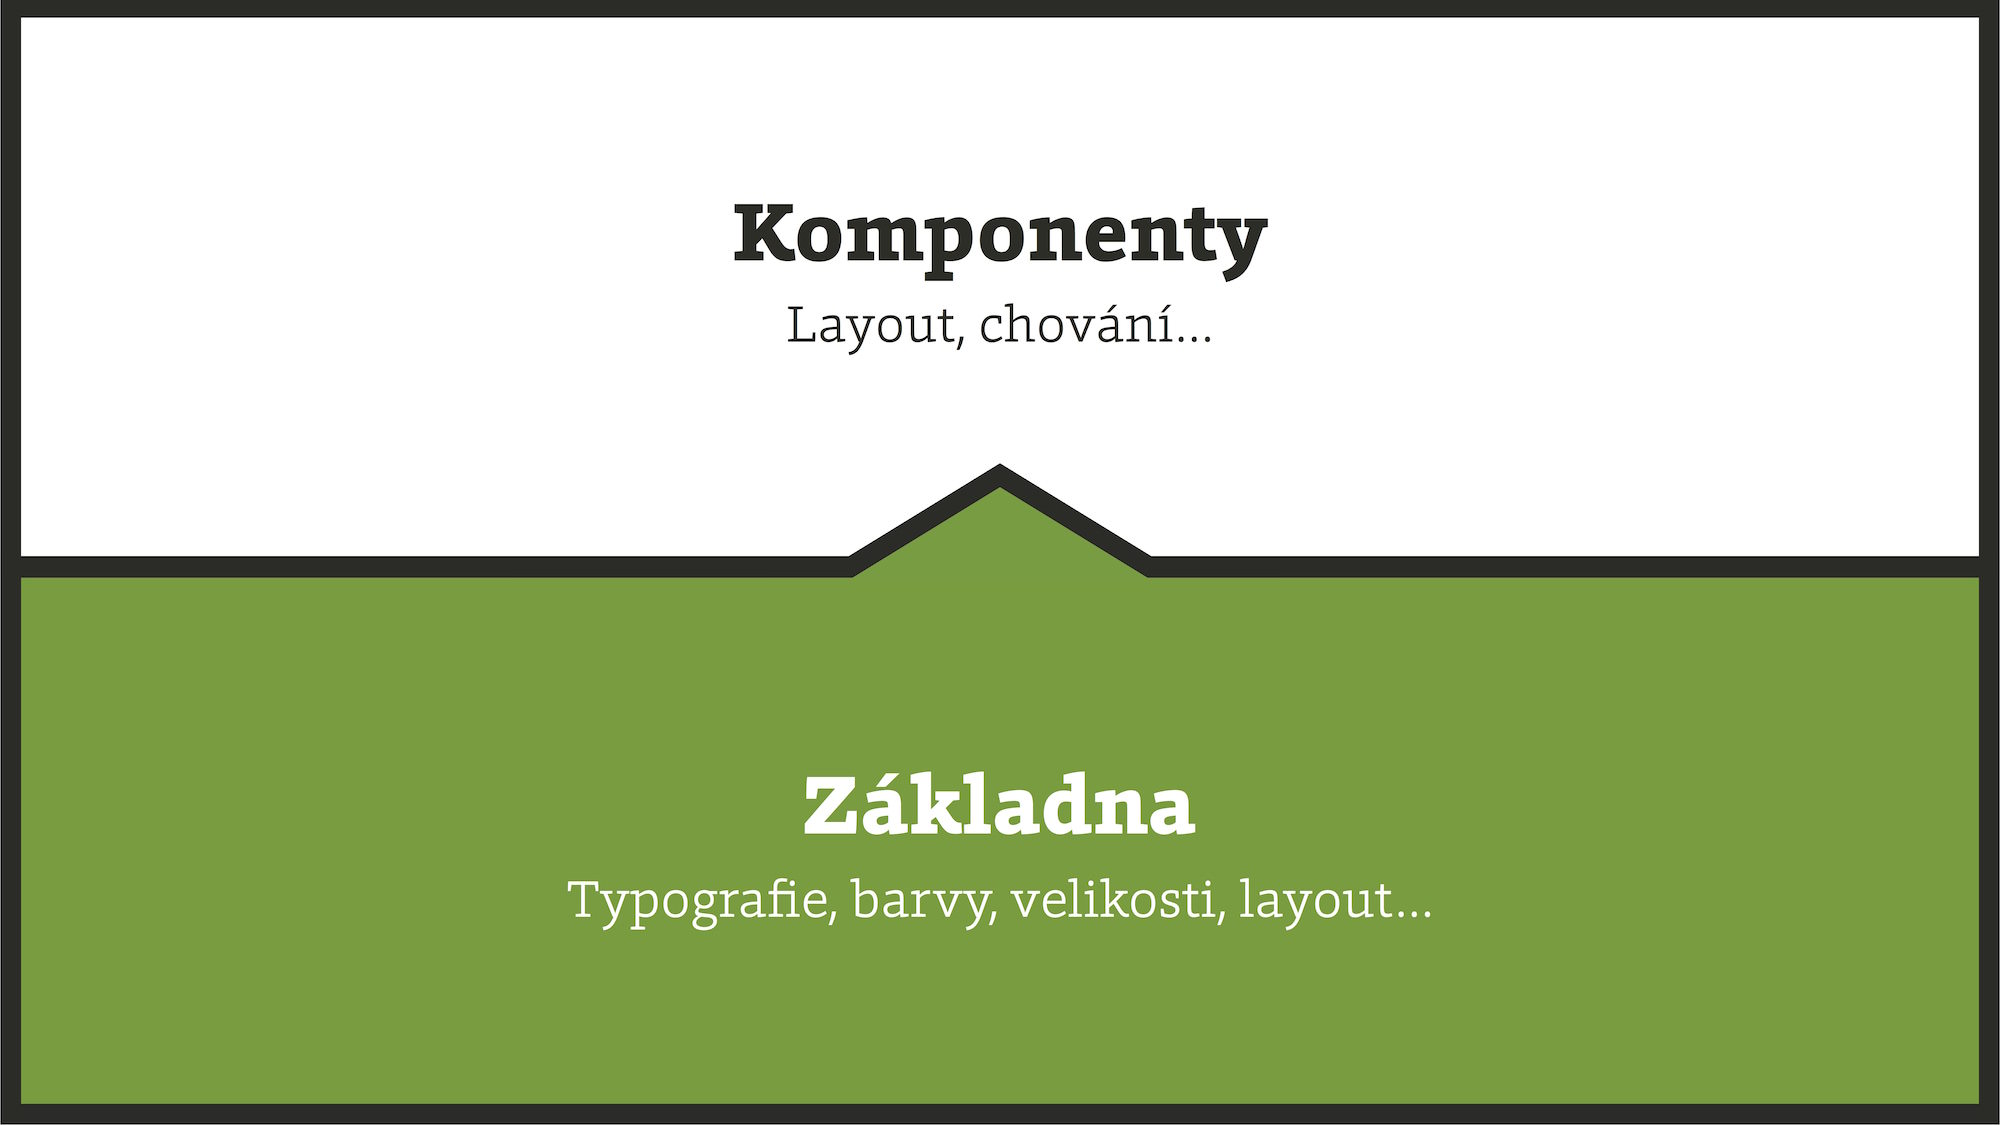
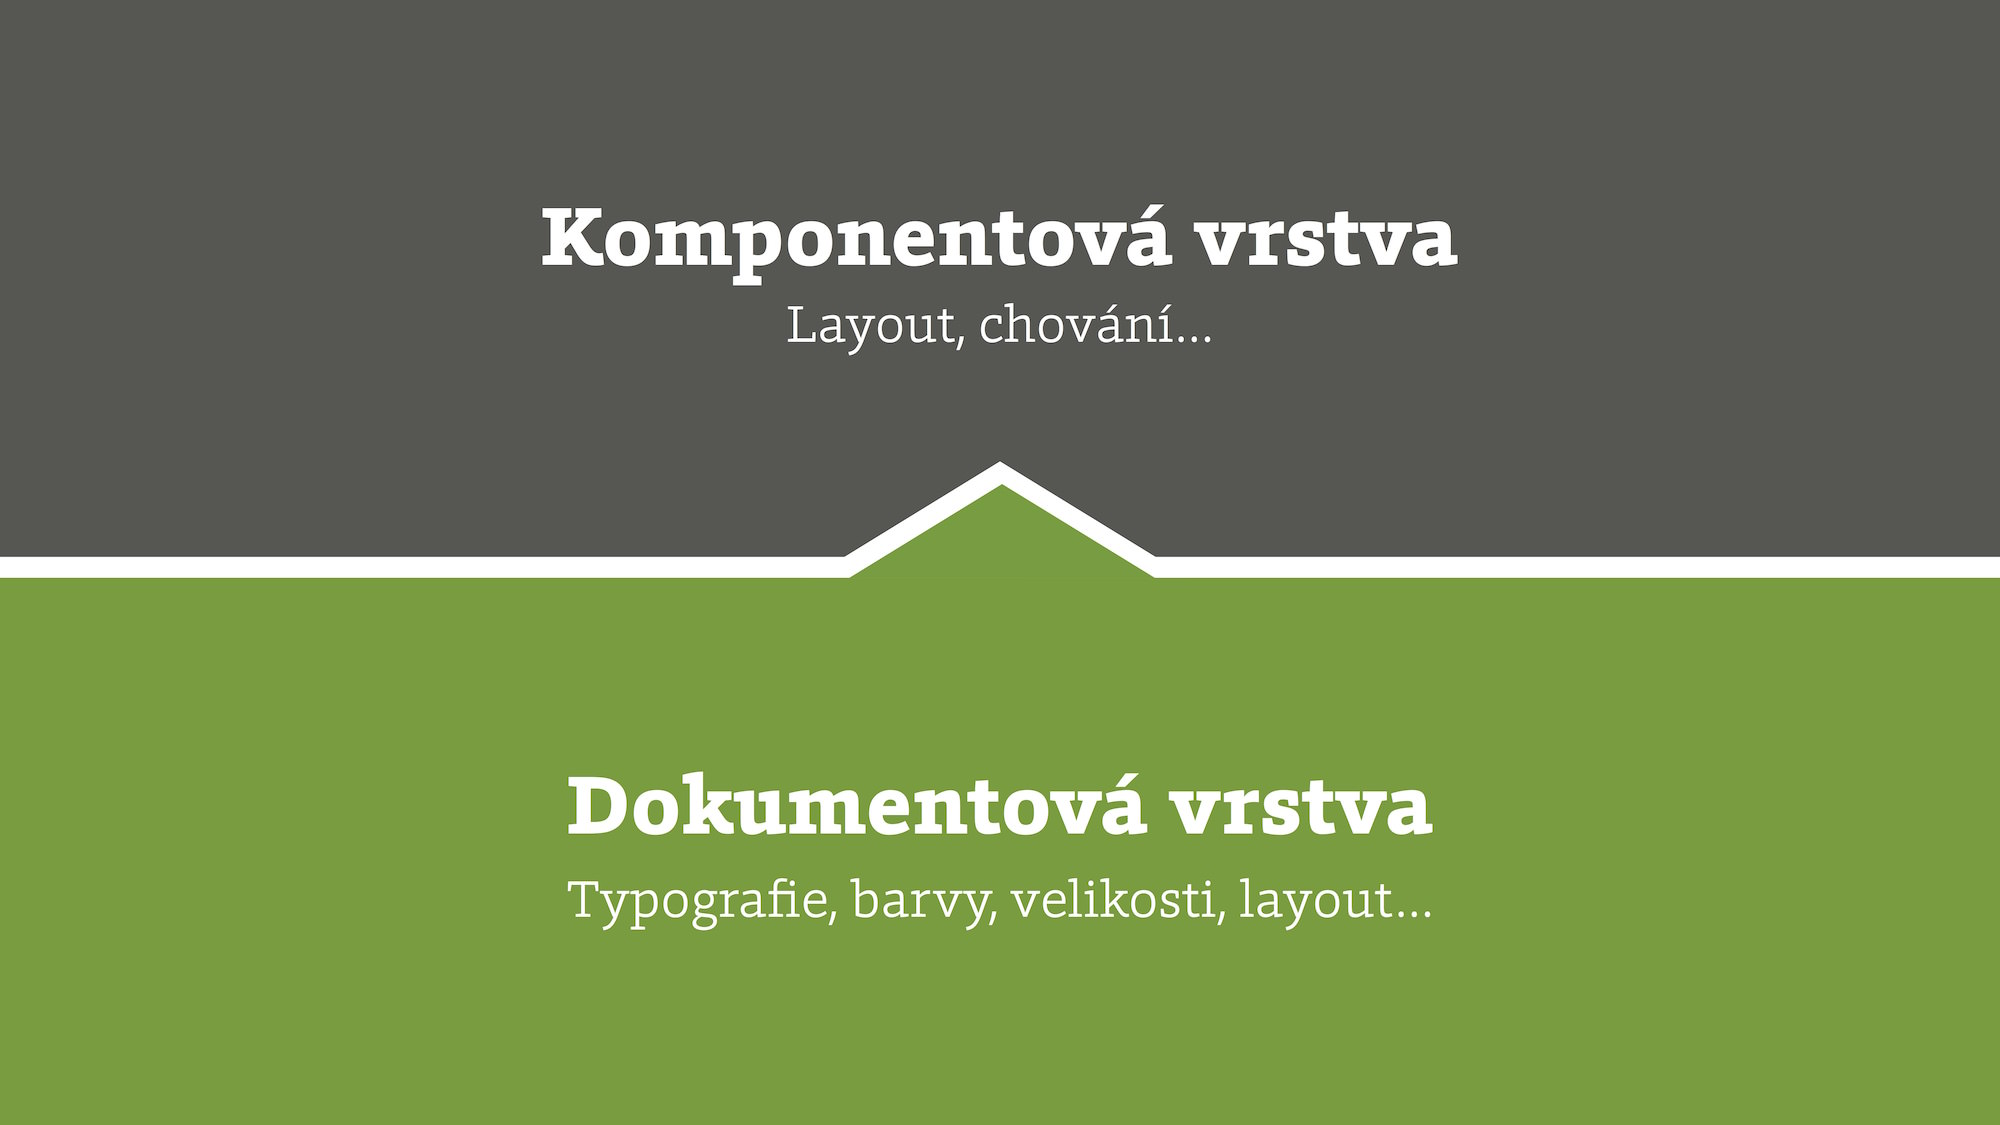
VDWD Kapitola 3 - review Vrstveni

diff --git a/content-vdwd/vrstveni.md b/content-vdwd/vrstveni.md
@@ -1,0 +1,121 @@
+# Vrstvení
+
+Tak bych jedním slovem popsal svůj proces návrhu a implementace webových rozhraní. První z vrstev je dokumentový základ.
+
+![Dvě vrstvy: dokument a komponenty](dist/images/vdwd/zakladna-komponenty.jpg)
+
+*Dokumentová vrstva obsahuje společné elementy grafického designu: barvy, typografii, velikostní stupnici, grafický styl a další prvky. Z nich pak vychází komponenty uživatelského rozhraní, obohacené o layout a chování.*
+
+Na obrázku vidíte opravdu jen nejzákladnější dělení. Dokument obsahuje mnoho dalších vrstev, to si ukážeme ke konci kapitoly. A komponenty? I ty můžeme dělit do mnoha hierarchií, bylo by to ale už nad rámec téhle knížky.
+
+Musíme se ale shodnout na vrstvení. To totiž považuji za jednu ze základních (a skvělých!)
+vlastností média, kterému říkáme Web. Je to podstata fungování webových technologií a ty dávají mantinely designu. Stavění od základny je fajn ještě z jednoho důvodu. Umožní nám rozfázovat proces návrhu tak, abychom se nezabývali přiliš mnoha problémy najednou. A abychom nezačínali od konce.
+
+
+## Web je vrstvený z podstaty
+
+To, že vidíme nějakou webovou stránku, je možné jen díky správnému fungování skrytých vrstev. Technicky řečeno: zobrazení HTML stránky vyžaduje URL adresu, která vyžaduje HTTP protokol, který je zase postavený na vrstvě TCP/IP. 
+
+My ale tak hluboko nepůjdeme. Potřebujeme znát hlavně vrstvení tří hlavních technologií pro tvorbu webu: HTML, CSS a Javascriptu.
+
+![HTML, CSS, Javascript](dist/images/vdwd/html-css-js.jpg)
+
+*HTML slouží k vyznačení toho nejdůležitějšího: obsahu, jeho struktury a významu. CSS nastavuje vzhled a Javascript zase definuje chování stránky.*
+
+Dobře, ale co s tím?
+
+### Vrstvení zlepšuje kompatibilitu
+
+Je to skvěle vymyšlené. Když selže Javascript, zobrazí se stylovaný obsah. A když selže i CSS, dostanete alespoň obsah. 
+
+Nikdy nevíte, kdo a s jakým vybavením přijde zrovna na váš web. Rozdělení obsahu, vzhledu a chování je výhodné i z pohledu kompatibility. I ten nejexotičtější nebo prastarý prohlížeč vám při dodržení správného postupu zobrazí strukturovaný obsah. Jeremy Keith takto na WebExpo 2015 citoval Jake Archibalda:
+
+> Když selže výtah, je nepoužitelný. Když ale selžou jezdící schody, stanou se z nich prostě schody. Měli bychom budovat jezdící schody, ne výtahy.
+
+Jeremyho přednáška „Enhance!“, která se těmito principy detailně zabývá, je dostupná online. [vrdl.in/enhance](https://www.webexpo.cz/praha2015/prednaska/enhance/)
+
+### Weby závislé na Javascriptu? Opatrně s tím
+
+Některé webové aplikace na přítomnost Javascriptu plně spoléhají. V HTML kódu pak často bývá jen odkaz na skript a až ten obstarává vygenerování obsahu a stylů. Všechny vrstvy zajišťuje Javascript. I obsah a prezentace jsou na něm závislé. 
+
+Někde je z pohledu efektivity výhodné, někdy to dokonce ani jinak nejde. Jen je dobré znát nevýhody řešení. V Javascriptu stačí jedna chyba a nefunguje vám žádná z vrstev. Jako další nepříjemný bonus „dostanete“ horší indexování vyhledávači a celkovou přístupnost obsahu. 
+
+
+### Vrstvení je výhodnější pro indexování vyhledávači
+
+I přes to, že se Google už o obsahu vygenerovaném Javascriptem leccos naučil, kvalitní HTML podklad je spolehlivější zdroj. Nemluvě o tom, že další roboti (třeba ten Seznamu nebo Facebooku) ke dni psaní neumí obsah generovaný Javascriptem indexovat vůbec. 
+
+Pokud by vás zajímaly detaily o poněkud nedokolaném indexování javascriptových stránek, podívejte se na přednášku Jana Tichého „Vyhledávače a Javascript“. [youtu.be/kU_M1elyunw](https://youtu.be/kU_M1elyunw)
+
+
+### Vrstvení zpřístupňuje obsah širší cílové skupině
+
+Přístupnost. Široká škatule, do které patří první i kompatibilita a vyhledávače, ale také usnadnění přístupu hendikepovaným uživatelům. A pozor, nejsou to jen lidé s oční vadou nebo jiným fyzickým omezením. Momentálně „hendikepovaná“ může být i zdravá dvacetiletá studentka, které některé rozšíření v prohlížeči zablokuje zrovna váš javascriptový soubor. Tohle je web, takové věci se stávají.
+
+Někdy se stačí podívat hned na první řádku HTML kódu. Mluví o typu *dokumentu*. Heydon Pickering v knize „Inclusive Design Patterns“ říká:
+
+> `<!DOCTYPE html>` slouží jako důležitá připomínka toho, že i když navrhujete interakčně složité a dynamické rozhraní, stále prostě jen vkládáte obsah do okna prohlížeče.
+
+
+## Vrstvené CSS: kodér potřebuje vidět systém, ne vnější znaky systému
+
+Pokud má Web vrstvení v DNA, pak CSS je takový malý vrstvící maniak. Pozor na něj. Následuje nenápadný kousek kódu, který ale dost přesně popisuje důvody, proč vás s těmi vrstvami tak otravuji. Mají totiž vliv na designérské procesy:
+
+```css
+/* Dokument */
+html     { color: navy  }
+table    { margin-bottom: 1em }
+
+/* Komponenty */
+.table     { font-size: 80% }
+.table-bg  { background: ivory }
+```
+
+Pro celý web si jako barvu písma nastavíme námořnickou modř. Všem tabulkám pak v dokumentové základně spodní vnější okraj na velikost písma. Tabulky mimochodem mezitím přebraly globální barvu písma.  V další vrstvě, v komponentách, pak konkrétním skupinám tabulek pojmenovaným `.table` ještě zmenšujeme výchozí velikost písma. A jejich variaci `.table-bg` ještě barvu slonové kosti.
+
+A všechny ty krásné vizuální vlastnosti pak bude mít komponenta zapsaná v HTML takto:
+
+```html
+<table class="table table-bg">
+  …
+</table>
+```
+
+Komponenta `table` prostě zdědila styly z dokumentu a je drobně upravená modifikací `table-bg`.
+
+Teď uvedu CSS kód, který by mohl napsat kodér bez jasně daných pravidel pro designérskou základnu webu:
+
+```css
+/* Špatně: komponenty bez společné základny */
+
+.table { 
+  color: navy; 
+  font-size: 80%; 
+  margin-bottom: 1em; 
+}
+
+.table-bg  { 
+  color: navy; 
+  font-size: 80%; 
+  margin-bottom: 1em; 
+  background: ivory; 
+}
+```
+
+I když bude výsledek stejný jako v předchozí ukázce, kodér bude z takového řešení brzy nešťastný. Sami vidíte, že je tam spousta opakujícího se kódu.
+Takové řešení se bude špatně měnit, špatně číst a zpětně upravovat. Ve výsledku bude jen náchylnější k chybám a zpomalovat práci.
+
+Kodér tedy potřebuje systém, vrstvený a skládaný systém. Dostane ho ale od designéra? 
+
+
+## Designéři, navrhujte od dokumentu, nikoliv od layoutu
+
+Asi většina webů dnes vzniká v kreslícím nástroji jako je Photoshop nebo Sketch. Grafici si otevřou prázdný dokument, plochu jako ruzyňská přistávací dráha… 
+
+A první věc, kterou tam udělají, je rozvržení. Layout. Až pak se přes komponenty rozhraní propracují k obsahu a jeho vlastnostem. Poznáváte se? Nedivím se, je to intuitivní proces, který vám nenápadně nadiktoval nástroj, který používáte. 
+
+Kodér, který pak výsledný soubor z Photoshopu zpracovává, musí namísto převodu grafického systému do CSS tupě přepisovat co vidí. Do technologie převádí vnější znaky systému, ne systém samotný.
+
+Zkusme si vknížce ukázat postup, který jde tvorbě vrstveného systému na ruku. Když už máme v příkladu vyladěný obsah, vybereme písma, barvy a celkový grafický charakter. Prostě vizuální základnu. Pak teprve navrhneme komponenty typu navigace a až nám obsah začne přetékat z Ruzyně, teprve pak jej zalomíme layoutem.
+
+
